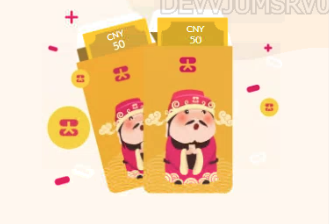
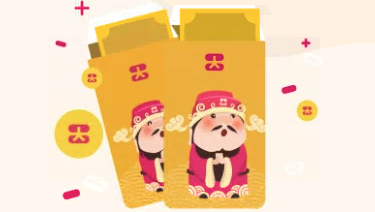
圖片定位

diff --git a/src/app/sent-laisee/sent-laisee.page.scss b/src/app/sent-laisee/sent-laisee.page.scss
@@ -37,14 +37,15 @@
 
   .header {
     position: relative;
-    height: 220px;
+    height: 212px;
+    width: 100%;
+    left: 0;
+    top: 0;
   }
   .caishen {
-    position: absolute;
-    width: 240px;
-    left: 50%;
-    top: 50%;
-    transform: translate(-50%, -50%);
+    height: 212px;
+    width: 100%;
+    object-fit: cover;
   }
 
   .custom-button {
@@ -132,11 +133,47 @@
     color: rgba(255, 255, 255, 0.8);
     text-align: center;
     position: absolute;
-    width: 100px;
     line-height: 12px;
-    left: 124px;
-    top: 16px;
   }
+  // iPhone SE 等較小機型
+  .single {
+    top: 14px;
+    left: 50%;
+    transform: translateX(-50%);
+  }
+  .double {
+    top: 14px;
+    left: 58.5%;
+    transform: translateX(-50%);
+  }
+  .double-rotate {
+    top: 22px;
+    left: 35%;
+    transform: translateX(-50%) rotate(-14deg);
+  }
+
+  /* 媒体查询 iPhone XR 等中等機型 */
+  @media (min-width: 390px) and (-webkit-device-pixel-ratio: 3) {
+    .single,
+    .double {
+      top: 15px;
+    }
+    .double-rotate {
+      top: 21.5px;
+    }
+  }
+
+  /* 媒体查询 iPhone 14 Pro Max 等大型機型 */
+  @media (min-width: 428px) and (-webkit-device-pixel-ratio: 3) {
+    .single,
+    .double {
+      top: 10px;
+    }
+    .double-rotate {
+      top: 18px;
+    }
+  }
+
   .select-currency {
     width: 80px;
     flex-shrink: 0;

diff --git a/src/app/sent-laisee/step3/step3.component.html b/src/app/sent-laisee/step3/step3.component.html
@@ -1,9 +1,23 @@
 <div class="header mb10">
-  <img src="assets/img/money.png" alt="" class="caishen" />
-  <div class="amountInPic font12">
-    <div>{{currency}}</div>
-    <div>{{amount?.value}}</div>
-  </div>
+  <ng-template [ngIf]="numCurrent===0" [ngIfElse]="noContentTemplate">
+    <img src="assets/img/single.png" alt="" class="caishen " />
+    <div class="single amountInPic font12">
+      <div>{{currency}}</div>
+      <div>{{amount?.value}}</div>
+    </div>
+  </ng-template>
+  <ng-template #noContentTemplate>
+    <img src="assets/img/double.png" alt="" class="caishen " />
+    <div class="double amountInPic font12">
+      <div>{{currency}}</div>
+      <div>{{amount?.value}}</div>
+    </div>
+    <div class="double-rotate amountInPic font12">
+      <div>{{currency}}</div>
+      <div>{{amount?.value}}</div>
+    </div>
+  </ng-template>
+
 </div>
 <div class="content">
   <ion-button fill="clear" id="click-trigger" size="small" class="custom-button mb10">

diff --git a/src/app/sent-laisee/sent-laisee.page.html b/src/app/sent-laisee/sent-laisee.page.html
@@ -39,10 +39,10 @@
     </ion-accordion>
   </ion-accordion-group>
 
-  <div>
+  <!-- <div>
     demo展示，與本頁内容無關
   </div>
   <ion-button (click)="nextStep(-1)" size="small">上一步</ion-button>
   <ion-button (click)="nextStep(1)" size="small">下一步</ion-button>
-  <ion-button [routerLink]="['/folder/demo']" size="small">Go to folder/demo</ion-button>
+  <ion-button [routerLink]="['/folder/demo']" size="small">Go to folder/demo</ion-button> -->
 </ion-content>

diff --git a/src/app/sent-laisee/sent-laisee.page.ts b/src/app/sent-laisee/sent-laisee.page.ts
@@ -32,7 +32,8 @@ export class SentLaiseePage {
   });
   currentStep = 3;
   goBack() {
-    this.locationStrategy.back();
+    // this.locationStrategy.back();
+    this.nextStep(-1);
   }
   nextStep(num: number) {
     console.log('Form value changed:', this.form.get('name')?.value);

diff --git a/src/app/sent-laisee/step2/step2.component.html b/src/app/sent-laisee/step2/step2.component.html
@@ -1,5 +1,5 @@
 <div class="header mb10">
-  <img src="assets/img/caishen.png" alt="" class="caishen" />
+  <img src="assets/img/single.png" alt="" class="caishen" />
 </div>
 <div class="content">
   <ion-button fill="clear" id="click-trigger" size="small" class="custom-button mb10">

diff --git a/src/app/sent-laisee/step3/step3.component.ts b/src/app/sent-laisee/step3/step3.component.ts
@@ -20,7 +20,7 @@ export class Step3Component implements OnInit {
   btnCurrent = 0;
 
   myNums = ['Send one', 'Double up'];
-  numCurrent = 0;
+  numCurrent = 1;
 
   btnClick(amount: number, index: number) {
     this.form.setValue({ ...this.form.value, amount });

diff --git a/src/app/sent-laisee/step1/step1.component.html b/src/app/sent-laisee/step1/step1.component.html
@@ -1,5 +1,5 @@
 <div class="header mb10">
-  <img src="assets/img/caishen.png" alt="" class="caishen" />
+  <img src="assets/img/single.png" alt="" class="caishen" />
 </div>
 
 <div class="content">
